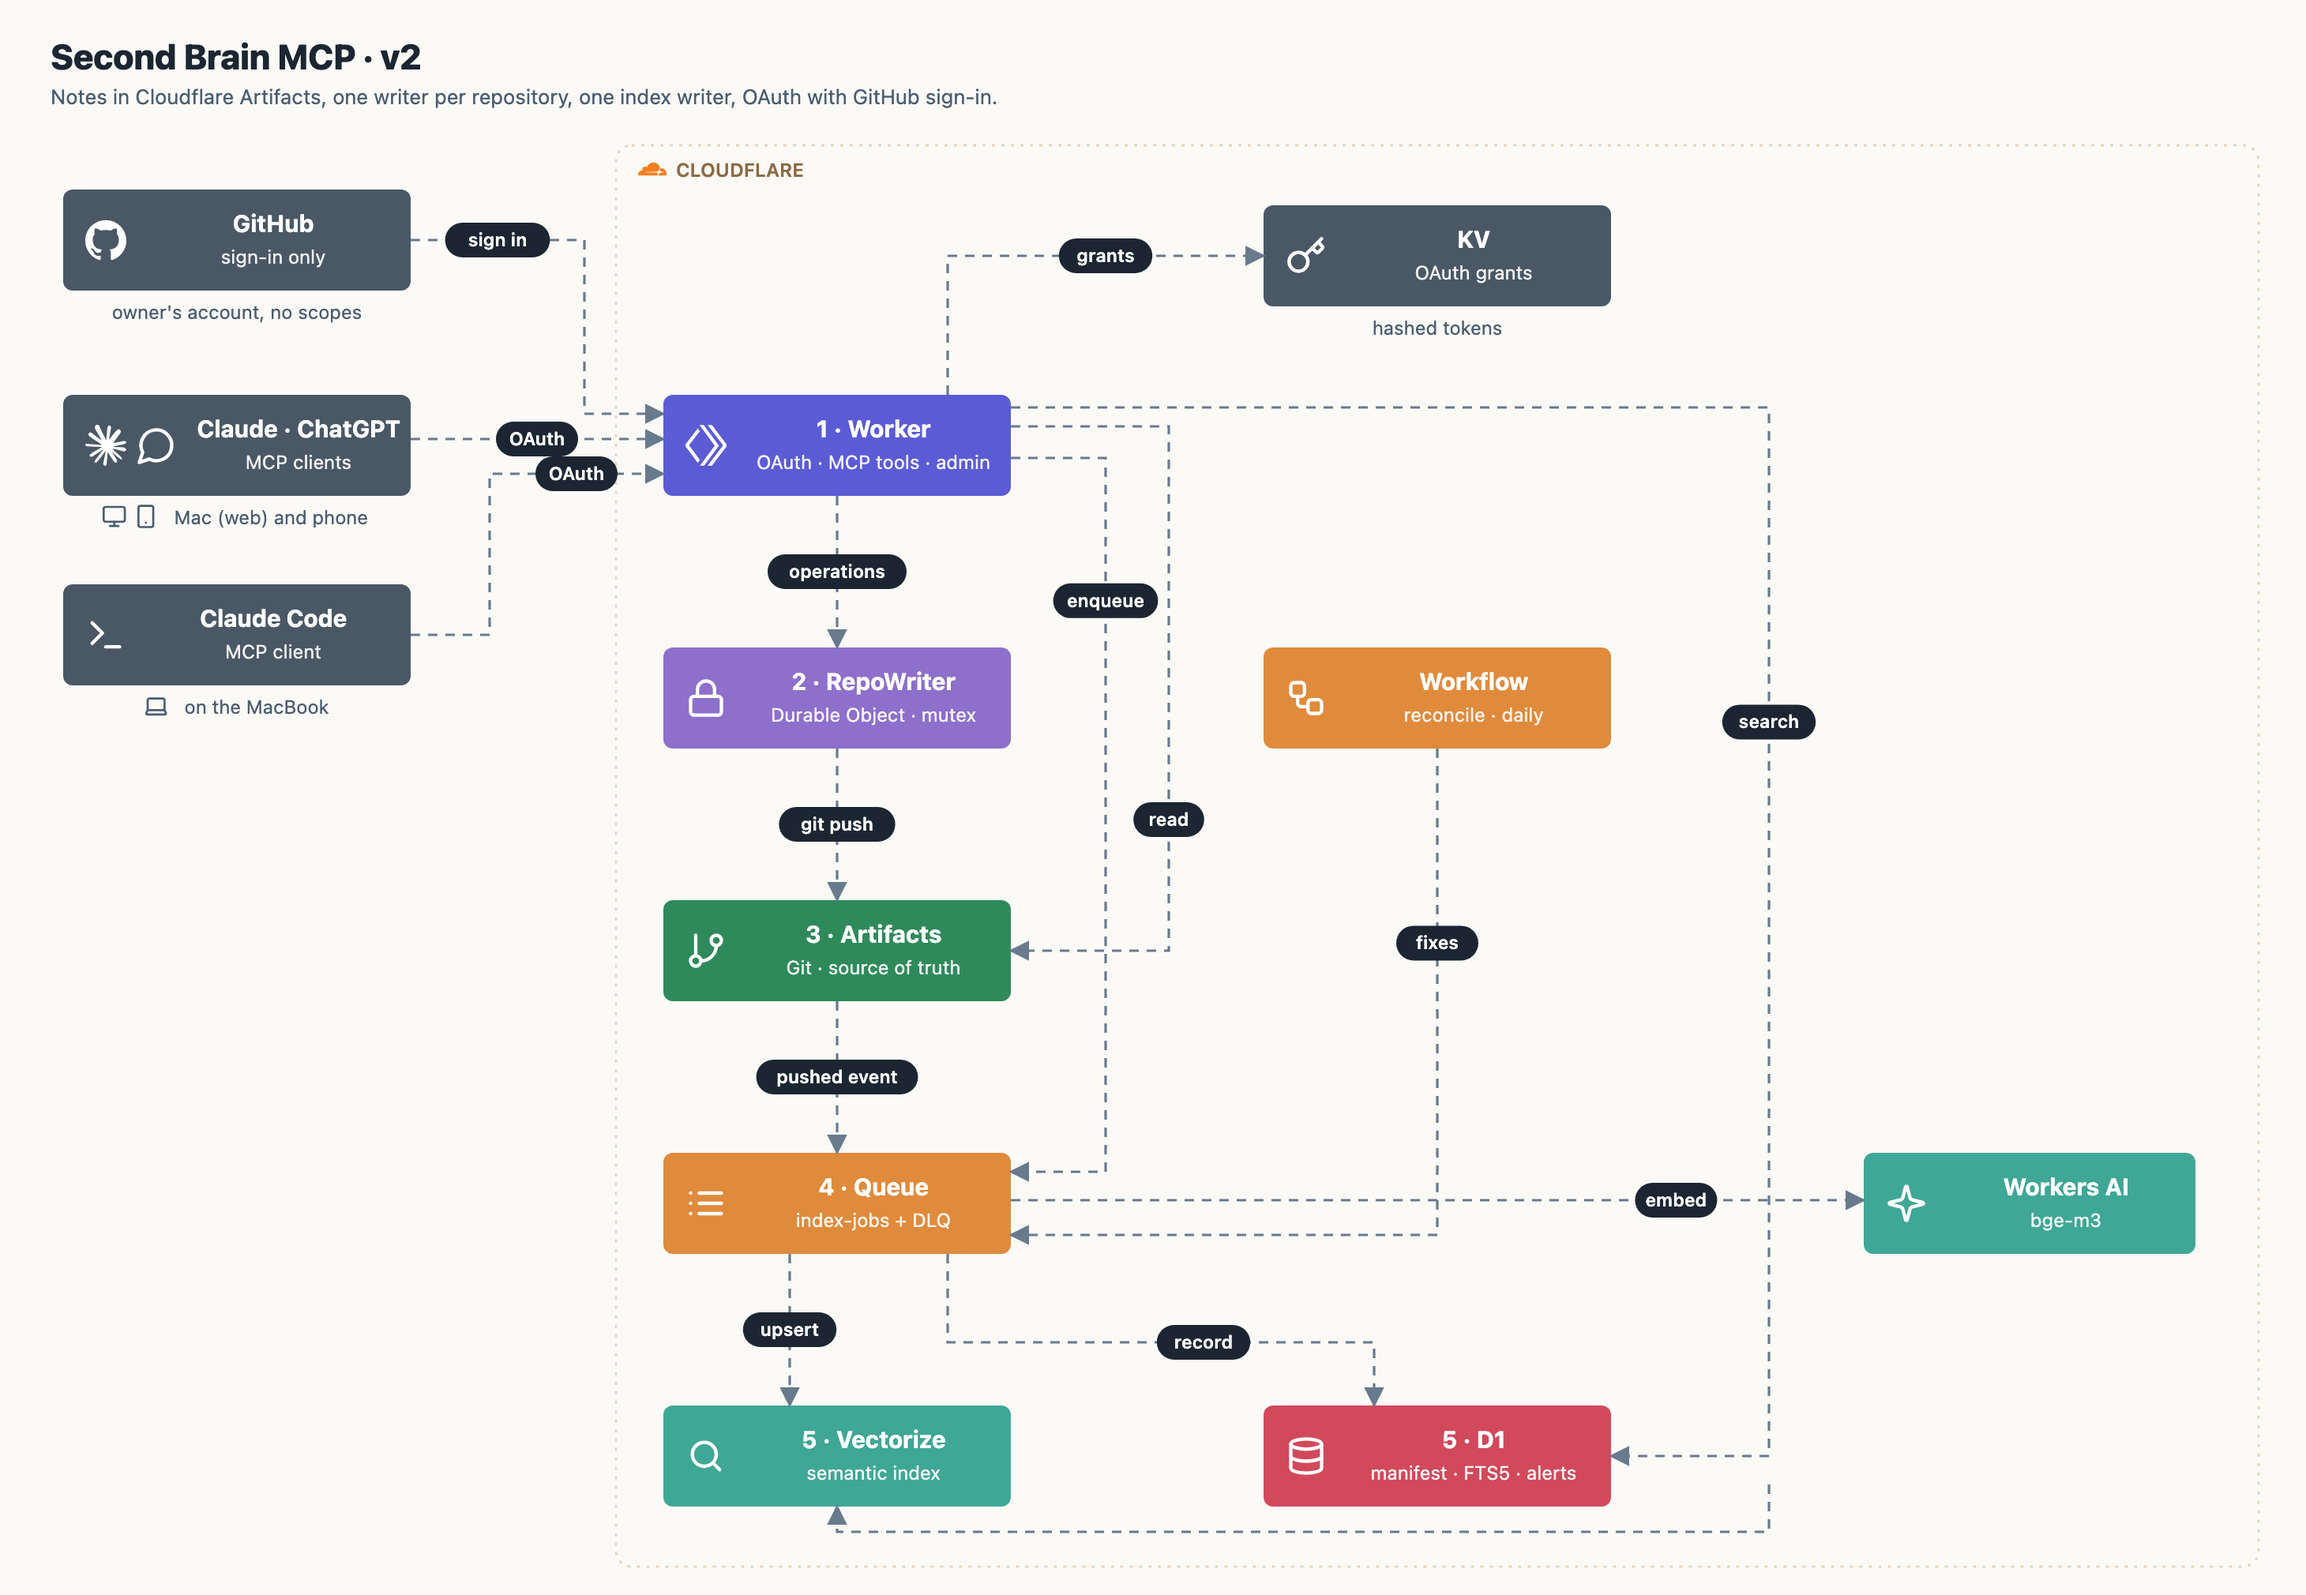
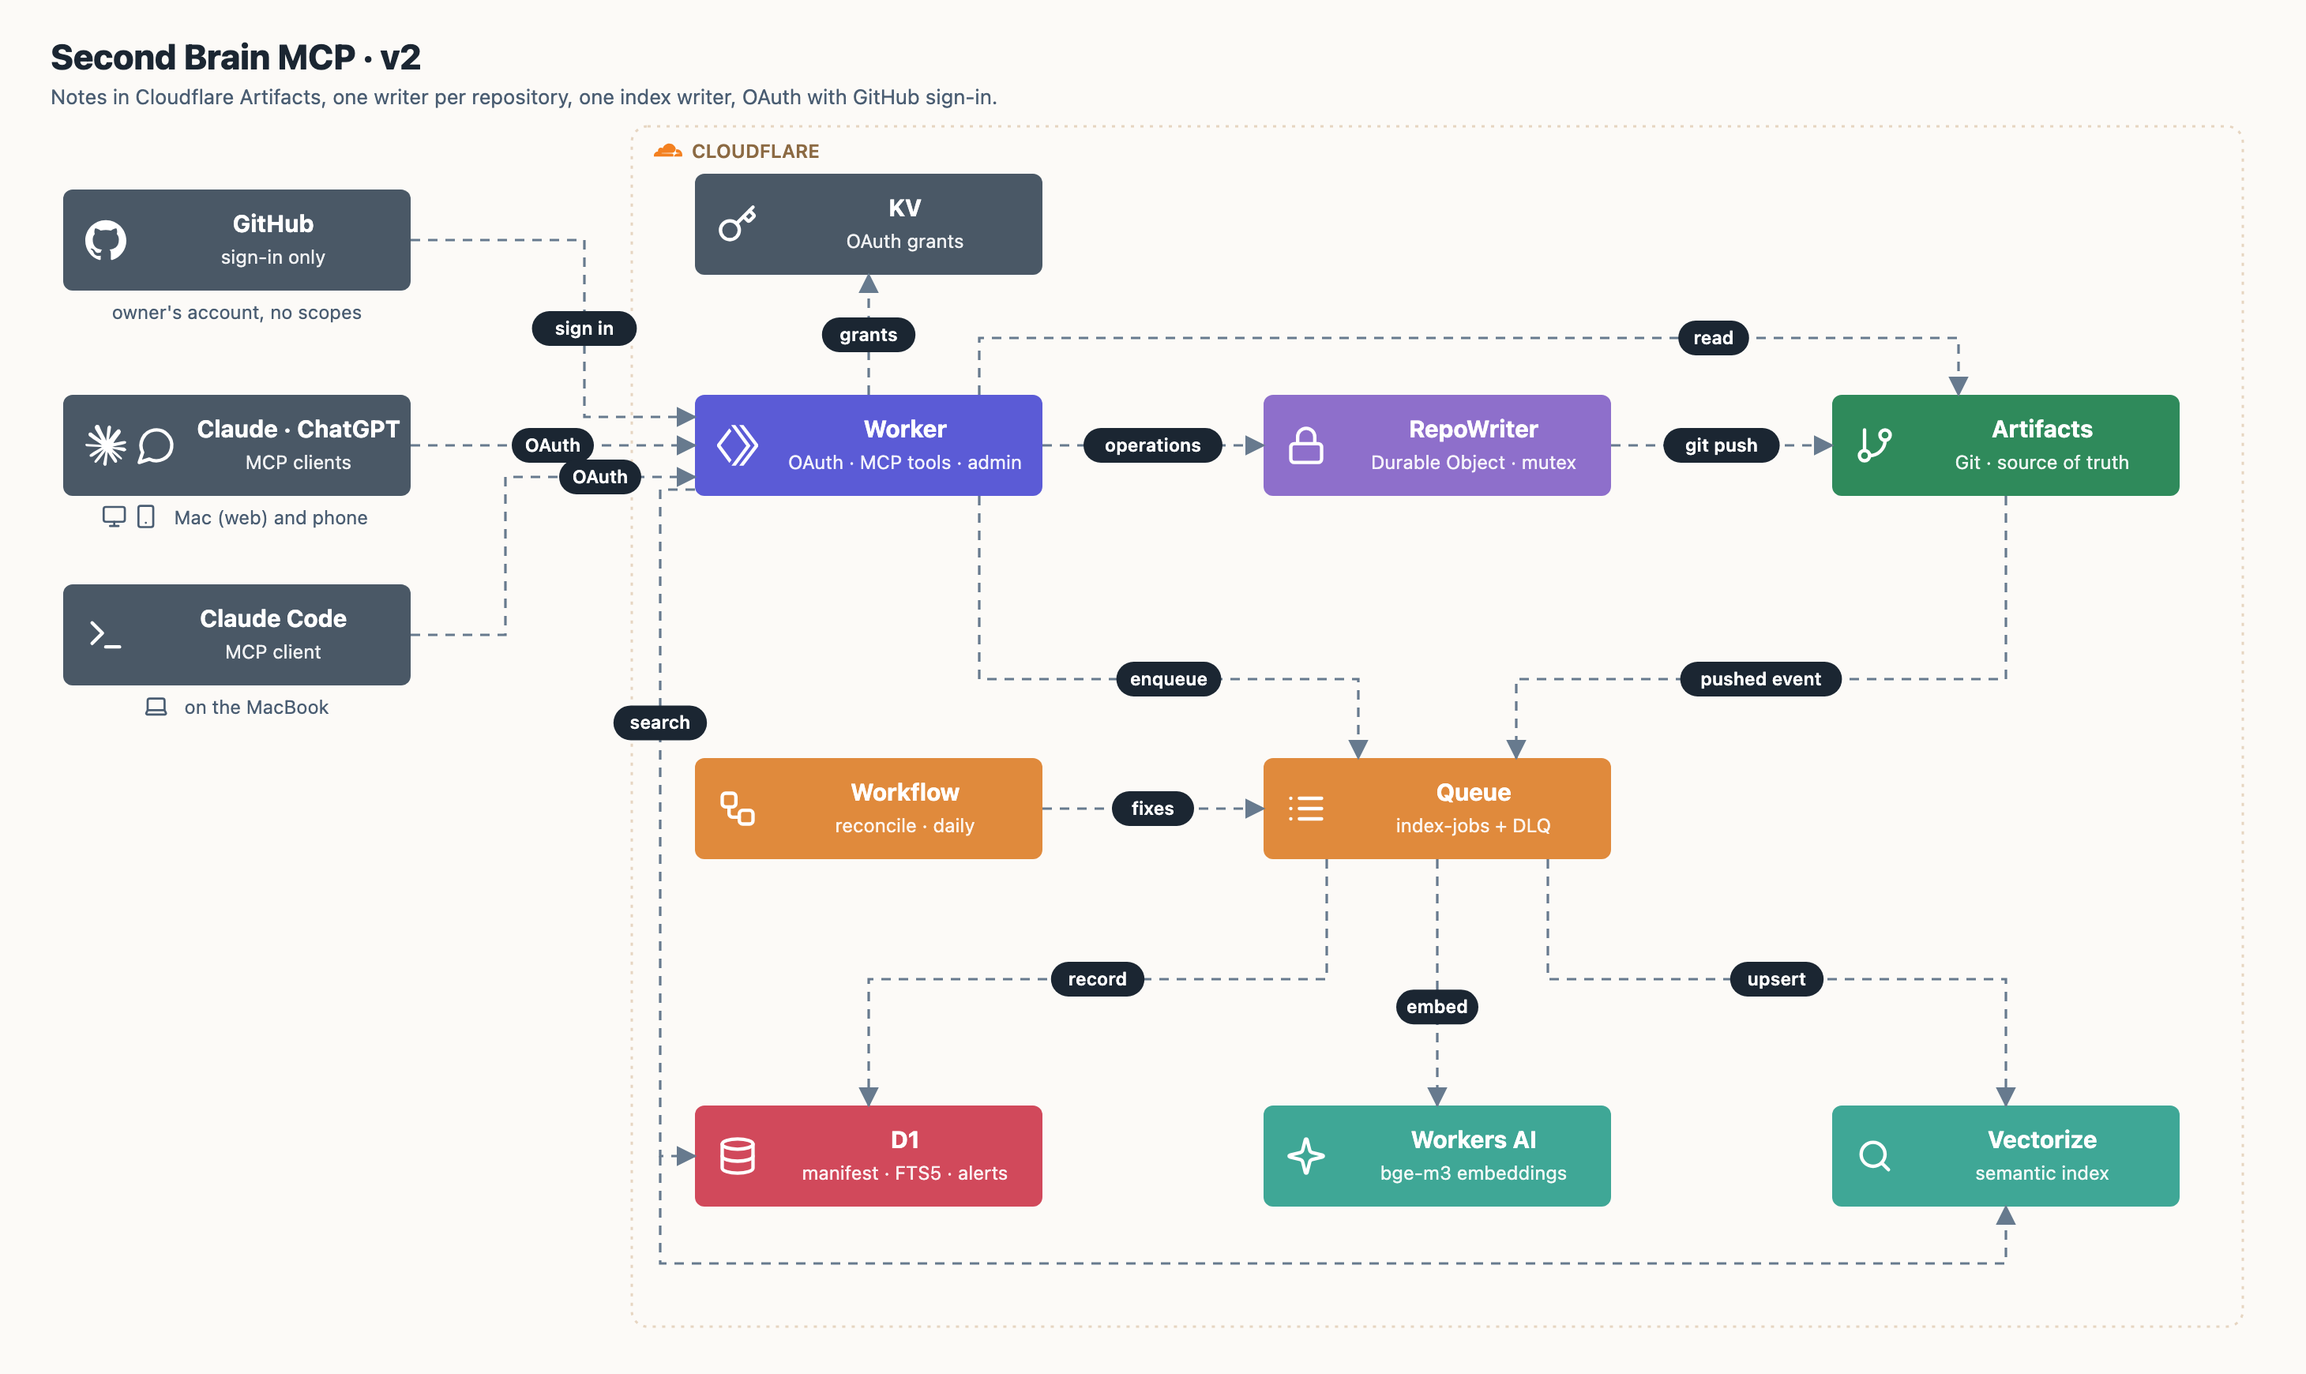
Architecture v2: read left to right in rows (write; Workflow and Queue; D1, Workers AI, Vectorize)
Claude-Session: https://claude.ai/code/session_0171UdtAm1pRxwuhTFhKDhrM

diff --git a/docs/architecture/draw.py b/docs/architecture/draw.py
@@ -101,41 +101,47 @@ open(os.path.join(os.path.dirname(__file__), "v1.svg"), "w").write(svg(1120, 650
 
 # ---------- v2 ----------
 # Columns: outside (A) | Worker & runners (B) | storage & queue (C) | indexes & AI (D)
-A, B, Cx, D = 40, 420, 800, 1180
-# top to bottom = the order a write happens: client, Worker, writer, Artifacts, Queue, indexes.
-# Side columns: things used on the way (KV at sign-in, Workers AI for embeddings) or on a schedule (Workflow).
+A, X1, X2, X3 = 40, 440, 800, 1160
+# Read it like text, left to right, row by row:
+#   row 1, the write: Worker -> RepoWriter -> Artifacts
+#   row 2, indexing in the background: Workflow (daily repair) -> Queue
+#   row 3, the indexes: D1, Workers AI (embeddings), Vectorize
 v2 = []
-v2.append('<rect x="390" y="92" width="1040" height="900" rx="10" class="g"/>' + f'<path transform="translate(404,98) scale(0.75)" d="{BRANDS["cloudflare"]}" fill="#F38020"/>' + '<text x="428" y="112" class="gl">CLOUDFLARE</text>')
+v2.append('<rect x="400" y="80" width="1020" height="760" rx="10" class="g"/>' + f'<path transform="translate(414,86) scale(0.75)" d="{BRANDS["cloudflare"]}" fill="#F38020"/>' + '<text x="438" y="100" class="gl">CLOUDFLARE</text>')
 v2.append(box(A, 120, "GitHub", "sign-in only", "slate", "owner's account, no scopes", icons=("github",)))
 v2.append(box(A, 250, "Claude · ChatGPT", "MCP clients", "slate", icons=("claude", "chat")) + devices(A + 110, 332, ("monitor", "smartphone"), "Mac (web) and phone"))
 v2.append(box(A, 370, "Claude Code", "MCP client", "slate", icons=("terminal",)) + devices(A + 110, 452, ("laptop",), "on the MacBook"))
-v2.append(box(B, 250, "1 · Worker", "OAuth · MCP tools · admin", "indigo", icons=("workers",)))
-v2.append(box(Cx, 130, "KV", "OAuth grants", "slate", "hashed tokens", icons=("key",)))
-v2.append(box(B, 410, "2 · RepoWriter", "Durable Object · mutex", "purple", icons=("lock",)))
-v2.append(box(B, 570, "3 · Artifacts", "Git · source of truth", "green", icons=("branch",)))
-v2.append(box(Cx, 410, "Workflow", "reconcile · daily", "orange", icons=("workflow",)))
-v2.append(box(B, 730, "4 · Queue", "index-jobs + DLQ", "orange", icons=("queue",)))
-v2.append(box(D, 730, "Workers AI", "bge-m3", "teal", w=210, icons=("sparkles",)))
-v2.append(box(B, 890, "5 · Vectorize", "semantic index", "teal", icons=("search",)))
-v2.append(box(Cx, 890, "5 · D1", "manifest · FTS5 · alerts", "red", icons=("database",)))
+v2.append(box(X1, 110, "KV", "OAuth grants", "slate", icons=("key",)))
+# row 1
+v2.append(box(X1, 250, "Worker", "OAuth · MCP tools · admin", "indigo", icons=("workers",)))
+v2.append(box(X2, 250, "RepoWriter", "Durable Object · mutex", "purple", icons=("lock",)))
+v2.append(box(X3, 250, "Artifacts", "Git · source of truth", "green", icons=("branch",)))
+# row 2
+v2.append(box(X1, 480, "Workflow", "reconcile · daily", "orange", icons=("workflow",)))
+v2.append(box(X2, 480, "Queue", "index-jobs + DLQ", "orange", icons=("queue",)))
+# row 3
+v2.append(box(X1, 700, "D1", "manifest · FTS5 · alerts", "red", icons=("database",)))
+v2.append(box(X2, 700, "Workers AI", "bge-m3 embeddings", "teal", icons=("sparkles",)))
+v2.append(box(X3, 700, "Vectorize", "semantic index", "teal", icons=("search",)))
 # into the Worker
-v2.append(arrow([(260, 152), (370, 152), (370, 262), (420, 262)], "sign in", at=0.5))
-v2.append(arrow([(260, 278), (420, 278)], "OAuth"))
-v2.append(arrow([(260, 402), (310, 402), (310, 300), (420, 300)], "OAuth", at=0.5))
-v2.append(arrow([(600, 250), (600, 162), (800, 162)], "grants", at=0.5))
-# the write, top to bottom
-v2.append(arrow([(530, 314), (530, 410)], "operations"))
-v2.append(arrow([(530, 474), (530, 570)], "git push"))
-v2.append(arrow([(530, 634), (530, 730)], "pushed event"))
-v2.append(arrow([(640, 290), (700, 290), (700, 742), (640, 742)], "enqueue", at=0.2))
-# reads and search
-v2.append(arrow([(640, 270), (740, 270), (740, 602), (640, 602)], "read", at=0.75))
-v2.append(arrow([(640, 258), (1120, 258), (1120, 922), (1020, 922)], "search", at=0.3))
-v2.append(arrow([(1120, 940), (1120, 970), (530, 970), (530, 954)]))
-# indexing
-v2.append(arrow([(910, 474), (910, 782), (640, 782)], "fixes", at=0.4))
-v2.append(arrow([(640, 760), (1180, 760)], "embed", at=0.78))
-v2.append(arrow([(500, 794), (500, 890)], "upsert"))
-v2.append(arrow([(600, 794), (600, 850), (870, 850), (870, 890)], "record", at=0.6))
-open(os.path.join(os.path.dirname(__file__), "v2.svg"), "w").write(svg(1460, 1010, "Second Brain MCP · v2", "Notes in Cloudflare Artifacts, one writer per repository, one index writer, OAuth with GitHub sign-in.", "".join(v2)))
+v2.append(arrow([(260, 152), (370, 152), (370, 264), (440, 264)], "sign in", at=0.5))
+v2.append(arrow([(260, 282), (440, 282)], "OAuth"))
+v2.append(arrow([(260, 402), (320, 402), (320, 302), (440, 302)], "OAuth", at=0.5))
+v2.append(arrow([(550, 250), (550, 174)], "grants"))
+# row 1: the write
+v2.append(arrow([(660, 282), (800, 282)], "operations"))
+v2.append(arrow([(1020, 282), (1160, 282)], "git push"))
+v2.append(arrow([(620, 250), (620, 214), (1240, 214), (1240, 250)], "read", at=0.75))
+# row 2: into the Queue
+v2.append(arrow([(620, 314), (620, 430), (860, 430), (860, 480)], "enqueue", at=0.5))
+v2.append(arrow([(1270, 314), (1270, 430), (960, 430), (960, 480)], "pushed event", at=0.5))
+v2.append(arrow([(660, 512), (800, 512)], "fixes"))
+# row 3: the consumer indexes
+v2.append(arrow([(840, 544), (840, 620), (550, 620), (550, 700)], "record", at=0.5))
+v2.append(arrow([(910, 544), (910, 700)], "embed", at=0.6))
+v2.append(arrow([(980, 544), (980, 620), (1270, 620), (1270, 700)], "upsert", at=0.5))
+# search reads both indexes
+v2.append(arrow([(440, 310), (418, 310), (418, 732), (440, 732)], "search", at=0.35))
+v2.append(arrow([(418, 732), (418, 800), (1270, 800), (1270, 764)]))
+open(os.path.join(os.path.dirname(__file__), "v2.svg"), "w").write(svg(1460, 870, "Second Brain MCP · v2", "Notes in Cloudflare Artifacts, one writer per repository, one index writer, OAuth with GitHub sign-in.", "".join(v2)))
 print("ok")
